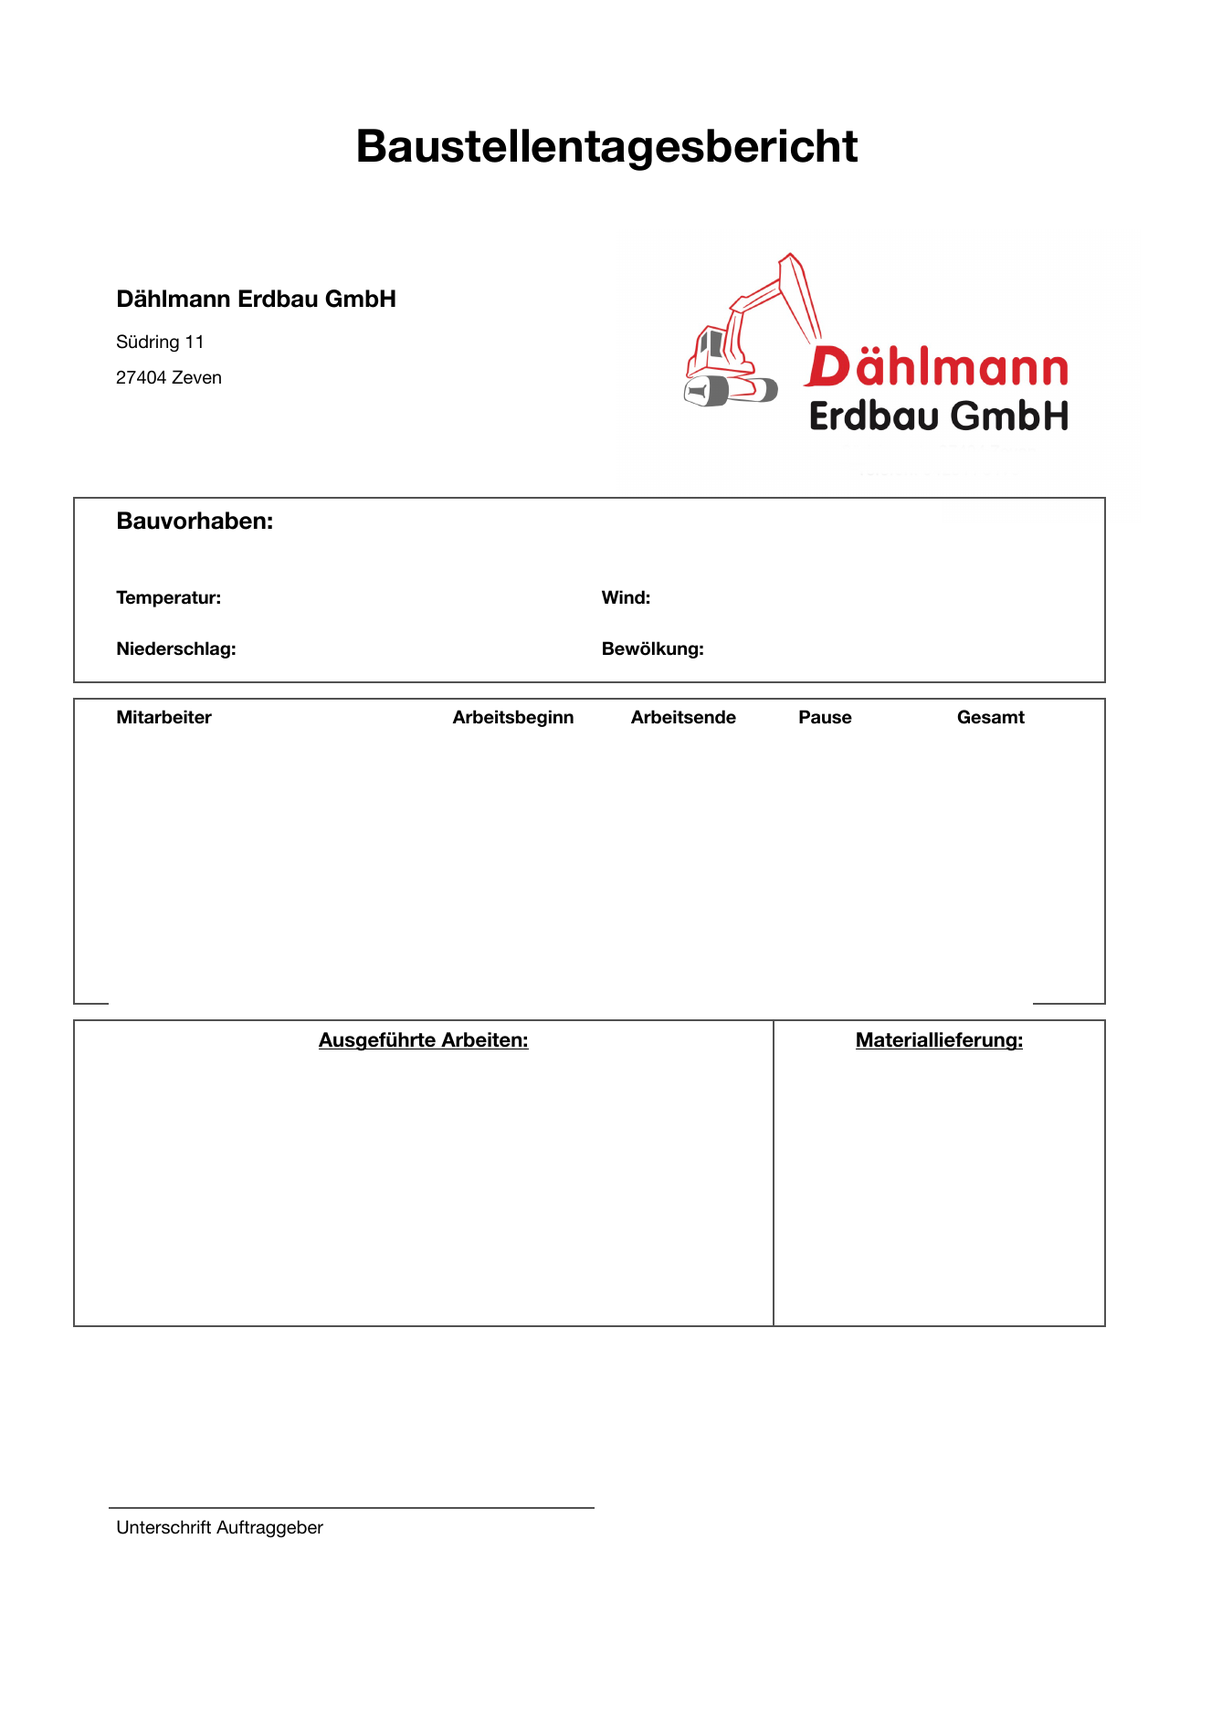
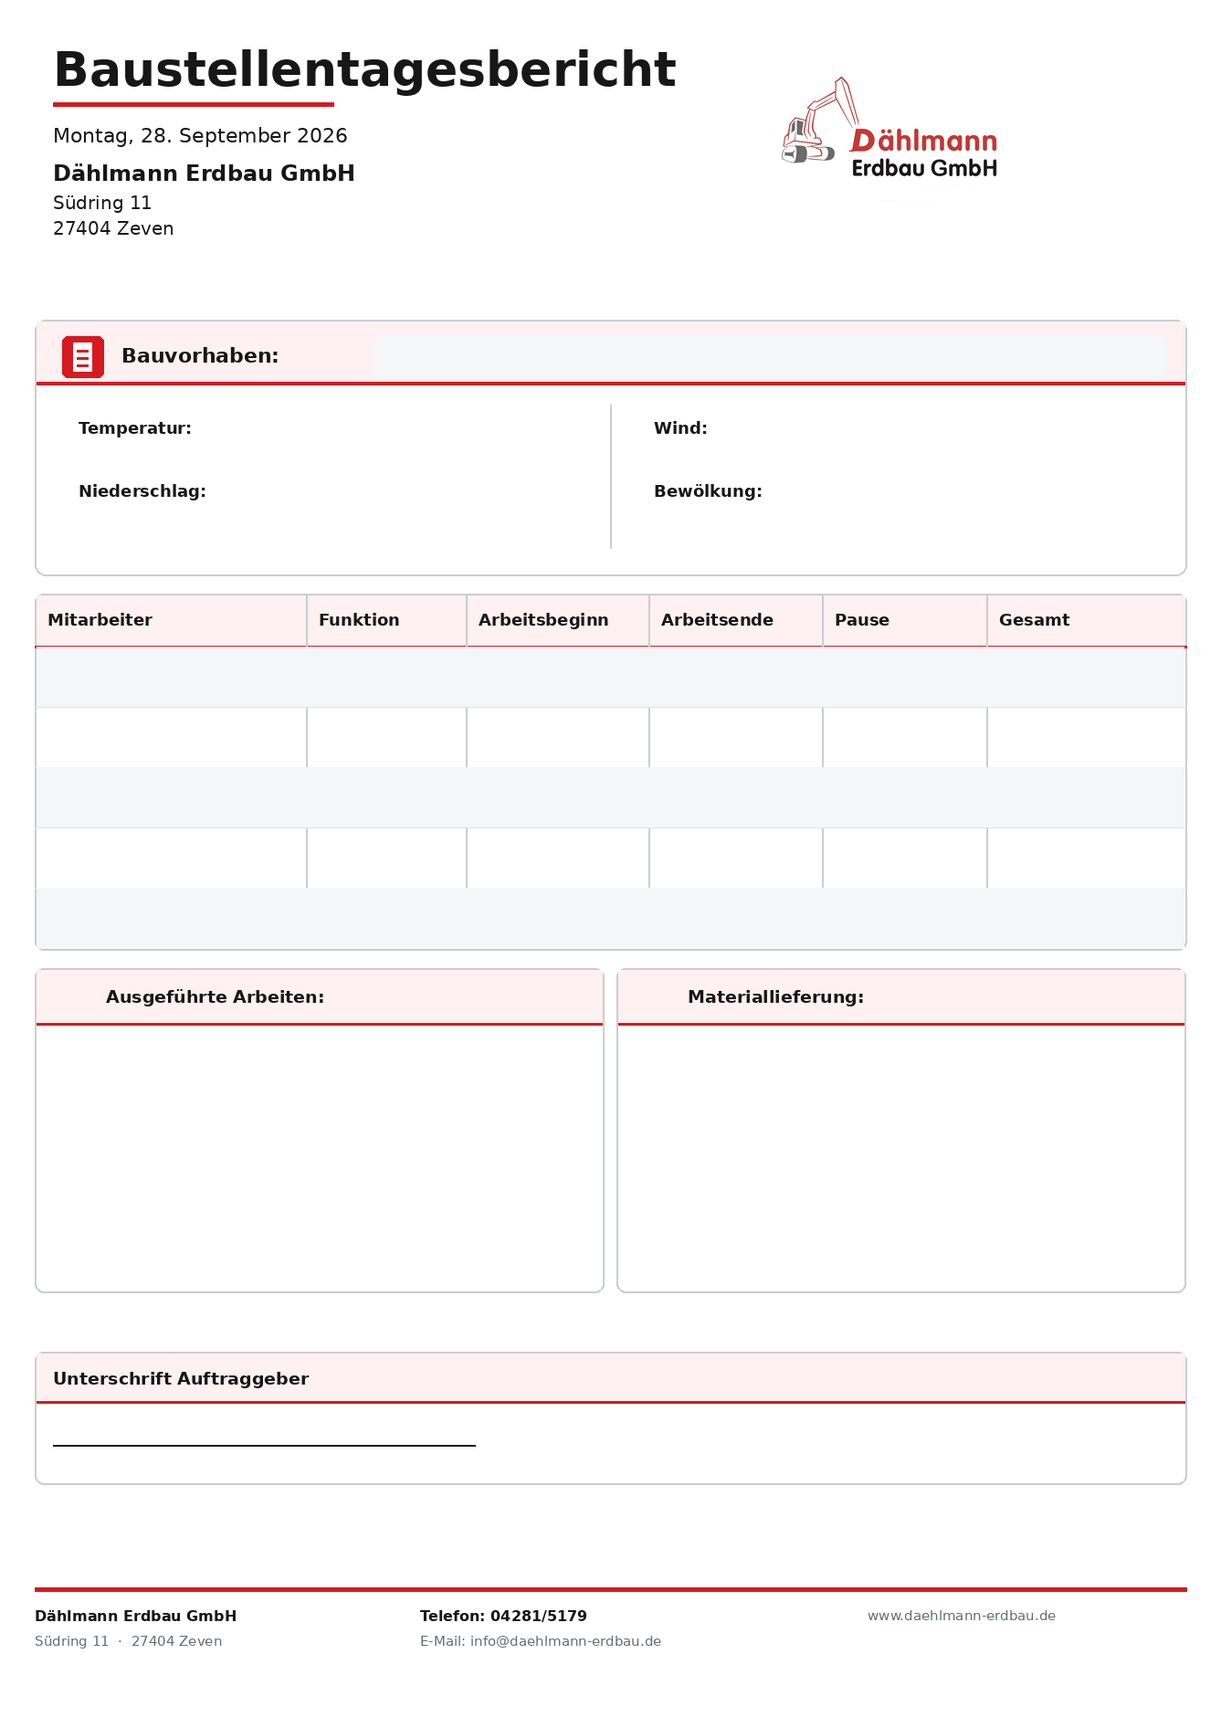
Add files via upload

diff --git a/app.js b/app.js
@@ -856,9 +856,7 @@ function pdfFilename(data){
 
 async function createPdf(options={}){
   const data=collect();
-  // Auch beim direkten Erstellen einer PDF wird der aktuelle Nachweis in der
-  // App gespeichert. So bleibt er unter "Nachweise" erhalten, unabhängig
-  // davon, ob der Benutzer den anschließenden Datei-Speicherdialog abbricht.
+  // Den aktuellen Bericht beim PDF-Export immer speichern.
   if(options.saveReport!==false){
     if(editingReportIndex!==null && reports[editingReportIndex]){
       const previous=reports[editingReportIndex];
@@ -874,31 +872,94 @@ async function createPdf(options={}){
   const btn=$('pdf');btn.disabled=true;btn.textContent='PDF wird erstellt …';
   let fileHandle=null;
   try{
-    // Den nativen Speichern-Dialog verwenden, wenn der Browser ihn unterstützt.
-    // Auf iPhone/iPad (Safari) gibt es showSaveFilePicker nicht; dort verwenden wir
-    // anschließend den System-Teilen-Dialog, über den der Benutzer 'In Dateien sichern'
-    // und den Zielordner auswählen kann.
     if(options.askLocation && 'showSaveFilePicker' in window){
       fileHandle=await window.showSaveFilePicker({
         suggestedName:pdfFilename(data),
         types:[{description:'PDF-Datei',accept:{'application/pdf':['.pdf']}}]
       });
     }
+
     const {PDFDocument,StandardFonts,rgb}=PDFLib;
-    const bytes=await fetch('OriginalTemplate.pdf',{cache:'no-store'}).then(r=>{if(!r.ok)throw new Error('Vorlage nicht gefunden');return r.arrayBuffer()});
-    const pdf=await PDFDocument.load(bytes); const page=pdf.getPages()[0]; const W=page.getWidth(),H=page.getHeight();
-    const normal=await pdf.embedFont(StandardFonts.Helvetica),bold=await pdf.embedFont(StandardFonts.HelveticaBold);
-    function cover(x,yTop,w,h){page.drawRectangle({x,y:H-yTop-h,width:w,height:h,color:rgb(1,1,1)})}
-    cover(225,94,165,18);cover(50,140,220,22);cover(50,165,150,40);
-    const dateText=formatDate(data.date),dateSize=fitText(normal,dateText,145,9.5,7.5);
-    page.drawText(dateText,{x:(W-normal.widthOfTextAtSize(dateText,dateSize))/2,y:H-108,size:dateSize,font:normal});
-    if(data.contractor)page.drawText(data.contractor,{x:54,y:H-158,size:11,font:bold});
-    splitLines(data.address).slice(0,2).forEach((ln,i)=>page.drawText(ln,{x:54,y:H-(180+i*20),size:9.5,font:normal}));
-    cover(180,241,375,24);drawWrapped(page,normal,data.project||'',198,H-263,350,9.5,1,2);
-    const rowTop=H-320,rowStep=20;
-    data.employees.slice(0,12).forEach((e,i)=>{const y=rowTop-i*rowStep,hours=(Number(e.hours)||0).toFixed(2).replace('.',',');if(hours!=='0,00')page.drawText(hours,{x:84,y,size:9.5,font:normal});if(e.service||e.activity)drawWrapped(page,normal,e.service||e.activity,145,y,92,9.2,1,2);if(e.name)page.drawText(e.name,{x:247,y,size:9.5,font:normal});if(e.start)page.drawText(e.start,{x:412,y,size:9.5,font:normal});if(e.end)page.drawText(e.end,{x:466,y,size:9.5,font:normal});if(Number(e.pause))page.drawText(String(e.pause),{x:517,y,size:9.5,font:normal})});
-    const contentTop=H-565;data.works.slice(0,12).forEach((v,i)=>drawWrapped(page,normal,'• '+v,54,contentTop-i*14,285,9.2,1,2));data.materials.slice(0,12).forEach((v,i)=>drawWrapped(page,normal,'• '+v,355,contentTop-i*14,195,9.2,1,2));
-    if(data.signature&&data.signature.length>100){const sigPng=await pdf.embedPng(data.signature);page.drawImage(sigPng,{x:54,y:70,width:190,height:70,opacity:1})}
+    // Die PDF wird jetzt wirklich auf der neuen Baustellentagesbericht-Skizze
+    // aufgebaut. Die Vorlage enthält nur das feste Layout; alle veränderlichen
+    // Angaben werden hier exakt in die dafür vorgesehenen Felder geschrieben.
+    const templateBytes=await fetch('template-bg-exact-clean-v2.png',{cache:'no-store'})
+      .then(r=>{if(!r.ok)throw new Error('PDF-Vorlage nicht gefunden');return r.arrayBuffer()});
+    const pdf=await PDFDocument.create();
+    const W=668.539,H=946.067;
+    const page=pdf.addPage([W,H]);
+    const bg=await pdf.embedPng(templateBytes);
+    page.drawImage(bg,{x:0,y:0,width:W,height:H});
+
+    const normal=await pdf.embedFont(StandardFonts.Helvetica);
+    const bold=await pdf.embedFont(StandardFonts.HelveticaBold);
+    const sx=W/1055, sy=H/1491;
+
+    // Bildkoordinaten (oben links) -> PDF-Koordinaten.
+    function drawImgText(value, px, py, size=9, font=normal, maxPx=null){
+      if(value===undefined||value===null||String(value)==='')return;
+      let str=String(value);
+      let fs=size;
+      if(maxPx){
+        const maxW=maxPx*sx;
+        while(fs>5.5 && font.widthOfTextAtSize(str,fs)>maxW)fs-=0.2;
+      }
+      page.drawText(str,{
+        x:px*sx,
+        y:H-(py+fs)*sy,
+        size:fs,
+        font,
+        color:rgb(0.06,0.06,0.06)
+      });
+    }
+    function drawFitImg(value,px,py,maxPx,size=9,font=normal){
+      if(value===undefined||value===null||String(value).trim()==='')return;
+      drawImgText(String(value),px,py,size,font,maxPx);
+    }
+
+    // Kopf
+    const dateText=formatDate(data.date);
+    drawFitImg(dateText,45,113,360,10,normal);
+
+    // Bauvorhaben: Kunde + Bauvorhaben, exakt in der grauen Zeile.
+    const projectLabel=[cleanContractorName(data.contractor),data.project].filter(Boolean).join(' – ');
+    drawFitImg(projectLabel,326,296,635,10,normal);
+
+    // Wetterwerte
+    drawFitImg(data.temperature,126,401,145,9.5,normal);
+    drawFitImg(data.wind,620,401,300,9.5,normal);
+    drawFitImg(data.precipitation,126,478,145,9.5,normal);
+    drawFitImg(data.cloud,620,478,300,9.5,normal);
+
+    // Mitarbeiter: eine Zeile pro Mitarbeiter, ohne zusätzliche Aufzählungszeichen.
+    // Die Spalten entsprechen der neuen Vorlage.
+    const employeeRows=(data.employees||[]).slice(0,5);
+    employeeRows.forEach((e,i)=>{
+      const top=614+i*48;
+      drawFitImg(e.name,47,top,205,8.7,normal);
+      drawFitImg(e.role,281,top,110,8.7,normal);
+      drawFitImg(e.start,404,top,115,8.7,normal);
+      drawFitImg(e.end,565,top,115,8.7,normal);
+      if(Number(e.pause)>0)drawFitImg(`${e.pause} min`,738,top,90,8.7,normal);
+      if(Number(e.hours)>0)drawFitImg((Number(e.hours)||0).toFixed(2).replace('.',',')+' Std.',875,top,105,8.7,normal);
+    });
+
+    // Ausgeführte Arbeiten – kein Punkt vor dem Eintrag.
+    (data.works||[]).slice(0,7).forEach((v,i)=>{
+      drawFitImg(v,48,908+i*29,450,8.4,normal);
+    });
+
+    // Materiallieferung – kein Punkt vor dem Eintrag.
+    (data.materials||[]).slice(0,7).forEach((v,i)=>{
+      drawFitImg(v,540,908+i*29,450,8.4,normal);
+    });
+
+    // Unterschrift liegt auf der vorhandenen Linie der Vorlage.
+    if(data.signature&&data.signature.length>100){
+      const sig=await pdf.embedPng(data.signature);
+      page.drawImage(sig,{x:45*sx,y:H-(1260+80)*sy,width:230*sx,height:70*sy});
+    }
+
     const out=await pdf.save({useObjectStreams:false});
     if(fileHandle){
       const writable=await fileHandle.createWritable();
@@ -907,10 +968,6 @@ async function createPdf(options={}){
     }else{
       const blob=new Blob([out],{type:'application/pdf'});
       const filename=pdfFilename(data);
-      // Auf mobilen Browsern, insbesondere iOS/iPadOS, gibt es keinen universellen
-      // 'Speichern unter'-Dialog für Web-Downloads. Der System-Teilen-Dialog bietet
-      // dort die Möglichkeit, die PDF über 'In Dateien sichern' an einem frei
-      // wählbaren Ort abzulegen.
       if(options.askLocation && navigator.share && navigator.canShare){
         const file=new File([blob],filename,{type:'application/pdf'});
         if(navigator.canShare({files:[file]})){
@@ -918,18 +975,22 @@ async function createPdf(options={}){
           return true;
         }
       }
-      // Fallback für Browser ohne Speichern-/Teilen-Dialog.
       const url=URL.createObjectURL(blob);
-      const a=document.createElement('a');a.href=url;a.download=filename;a.style.display='none';document.body.appendChild(a);a.click();a.remove();
+      const a=document.createElement('a');
+      a.href=url;a.download=filename;a.style.display='none';
+      document.body.appendChild(a);a.click();a.remove();
       setTimeout(()=>URL.revokeObjectURL(url),60000);
     }
     return true;
   }catch(err){
     if(err?.name==='AbortError') return false;
-    console.error(err);alert('PDF konnte nicht erstellt/gespeichert werden: '+err.message);return false;
-  }finally{btn.disabled=false;btn.textContent='PDF erstellen'}
+    console.error(err);
+    alert('PDF konnte nicht erstellt/gespeichert werden: '+err.message);
+    return false;
+  }finally{
+    btn.disabled=false;btn.textContent='PDF erstellen';
+  }
 }
-
 
 let reportSignatureCanvas, reportSignatureCtx, reportSignatureDown=false;
 let reportSignatureReady=false;
@@ -965,21 +1026,18 @@ function collectTagesbericht(){
 }
 function renderTagesberichtSummary(){
   const d=collectTagesbericht();
-  const emp=d.employees.map(e=>`<div class="reportSummaryEmployee"><b>${esc(e.name||'—')}</b><span>${esc(e.role||'—')} · ${esc(e.start||'—')}–${esc(e.end||'—')} · ${e.pause?esc(String(e.pause))+' min Pause':'keine Pause'} · <strong>${(Number(e.hours)||0).toFixed(2).replace('.',',')} Std.</strong></span></div>`).join('');
-  const list=(arr)=>arr.length?`<ul class="reportSummaryList">${arr.map(x=>`<li>${esc(x)}</li>`).join('')}</ul>`:'<div class="empty">Keine Angaben.</div>';
+  const date=formatDate(d.date)||'—';
+  const projectLabel=[d.customer,d.project].filter(Boolean).join(' – ')||'—';
+  const rows=(d.employees||[]).map(e=>`<tr><td>${esc(e.name||'—')}</td><td>${esc(e.role||'—')}</td><td>${esc(e.start||'—')}</td><td>${esc(e.end||'—')}</td><td>${e.pause?esc(String(e.pause))+' min':'—'}</td><td>${(Number(e.hours)||0).toFixed(2).replace('.',',')} Std.</td></tr>`).join('');
+  const lineRows=arr=>{const values=(arr||[]).slice(0,6);return Array.from({length:6},(_,i)=>`<div class="reportEntryLine">${values[i]?esc(values[i]):''}</div>`).join('')};
+  const sig=hasReportSignature()?`<img class="reportPreviewSignature" src="${reportSignatureCanvas.toDataURL('image/png')}" alt="">`:'';
   $('reportSummaryContent').innerHTML=`
-    <div class="reportSummaryGrid">
-      <div><span>Datum</span><b>${esc(formatDate(d.date)||'—')}</b></div>
-      <div><span>Kunde</span><b>${esc(d.customer||'—')}</b></div>
-      <div class="wide"><span>Bauvorhaben</span><b>${esc(d.project||'—')}</b></div>
-      <div><span>🌡 Temperatur</span><b>${esc(d.temperature)}</b></div>
-      <div><span>🌧 Niederschlag</span><b>${esc(d.precipitation)}</b></div>
-      <div><span>💨 Wind</span><b>${esc(d.wind)}</b></div>
-      <div><span>☁ Bewölkung</span><b>${esc(d.cloud)}</b></div>
-    </div>
-    <div class="reportSummarySection"><h3>Mitarbeiter</h3>${emp||'<div class="empty">Keine Mitarbeiter eingetragen.</div>'}</div>
-    <div class="reportSummarySection"><h3>Ausgeführte Arbeiten</h3>${list(d.works)}</div>
-    <div class="reportSummarySection"><h3>Materiallieferung</h3>${list(d.materials)}</div>`;
+    <div class="reportPaperHeader"><div class="reportHeaderLeft"><h1>Baustellentagesbericht</h1><div class="reportRedRule"></div><div class="reportDate">${esc(date)}</div><div class="reportCompany">Dählmann Erdbau GmbH</div><div>Südring 11</div><div>27404 Zeven</div></div><img class="reportLogo" src="dahlmann-erdbau-logo.jpg" alt="Dählmann Erdbau GmbH"></div>
+    <div class="reportInfoBox"><div class="reportProjectRow"><span class="reportDocIcon" aria-hidden="true">▤</span><b>Bauvorhaben:</b><span class="reportProjectValue">${esc(projectLabel)}</span></div><div class="reportWeatherRows"><div><b>Temperatur:</b><span>${esc(d.temperature)}</span></div><div><b>Wind:</b><span>${esc(d.wind)}</span></div><div><b>Niederschlag:</b><span>${esc(d.precipitation)}</span></div><div><b>Bewölkung:</b><span>${esc(d.cloud)}</span></div></div></div>
+    <div class="reportEmployeeTableWrap"><table class="reportEmployeeTable"><thead><tr><th>Mitarbeiter</th><th>Funktion</th><th>Arbeitsbeginn</th><th>Arbeitsende</th><th>Pause</th><th>Gesamt</th></tr></thead><tbody>${rows}${Array.from({length:Math.max(0,5-(d.employees||[]).length)},()=>'<tr><td></td><td></td><td></td><td></td><td></td><td></td></tr>').join('')}</tbody></table></div>
+    <div class="reportTwoCols"><section class="reportListBox"><h3><span class="gearIcon">⚙</span>Ausgeführte Arbeiten:</h3><div class="reportLines">${lineRows(d.works)}</div></section><section class="reportListBox"><h3><span class="truckIcon">▰</span>Materiallieferung:</h3><div class="reportLines">${lineRows(d.materials)}</div></section></div>
+    <div class="reportSignaturePreview"><h3>Unterschrift Auftraggeber</h3><div class="signatureLine">${sig}</div></div>
+    <div class="reportFooter"><div><b>Dählmann Erdbau GmbH</b><br>Südring 11 · 27404 Zeven</div><div><b>Telefon: 04281/5179</b><br>E-Mail: info@daehlmann-erdbau.de</div><div>www.daehlmann-erdbau.de</div></div>`;
 }
 function saveTagesbericht(){
   const data=collectTagesbericht();
@@ -1075,7 +1133,7 @@ async function createTagesberichtPdf(data){
     const works=(data.works||[]).slice(0,8);
     works.forEach((v,i)=>{
       const y=H-(593+i*15);
-      drawFit('• '+v,64,y,315,8.5,normal);
+      drawFit(v,64,y,315,8.5,normal);
     });
 
     // Materiallieferungen – deutlich weiter rechts und ebenfalls strikt innerhalb
@@ -1083,7 +1141,7 @@ async function createTagesberichtPdf(data){
     const materials=(data.materials||[]).slice(0,8);
     materials.forEach((v,i)=>{
       const y=H-(593+i*15);
-      drawFit('• '+v,410,y,130,8.2,normal);
+      drawFit(v,410,y,130,8.2,normal);
     });
 
     // Unterschrift: die Vorlage selbst enthält die Beschriftung und Linie.

diff --git a/styles.css b/styles.css
@@ -2448,3 +2448,6 @@ body.tagelohn-clean #appNav button small {
 .reportFinalActions{display:grid;gap:10px;margin-top:2px}
 .reportFinalActions .reportNextButton{margin-top:0}
 #tagesberichtSummary .reportSignaturePanel{padding-bottom:24px}
+
+/* APPROVED BAUSTELLENTAGESBERICHT – faithful web preview */
+.reportPreviewShell{max-width:760px;margin:0 auto;padding:0 8px 28px}.reportPaper{background:#fff;border:1px solid #d6dade;border-radius:10px;overflow:hidden;box-shadow:0 3px 14px rgba(20,30,40,.06);color:#171717}.reportPaperHeader{display:flex;justify-content:space-between;gap:18px;padding:30px 30px 22px;align-items:flex-start}.reportHeaderLeft h1{font-size:34px;line-height:1.05;margin:0;font-weight:800}.reportRedRule{width:230px;height:4px;background:#d71920;margin:8px 0 12px}.reportDate{font-size:15px;margin-bottom:18px}.reportCompany{font-weight:800;font-size:16px;margin-bottom:3px}.reportLogo{width:205px;height:auto;object-fit:contain;align-self:flex-start}.reportInfoBox{margin:0 22px;border:1px solid #cbd1d6;border-radius:9px;overflow:hidden}.reportProjectRow{min-height:54px;background:#fff0f1;border-bottom:2px solid #d71920;display:flex;align-items:center;gap:12px;padding:8px 14px}.reportDocIcon{display:grid;place-items:center;width:34px;height:38px;background:#d71920;color:#fff;border-radius:5px;font-size:24px;font-weight:800;line-height:1}.reportProjectRow b{font-size:16px;white-space:nowrap}.reportProjectValue{background:#f1f3f4;border-radius:6px;padding:9px 12px;min-width:0;flex:1;font-size:14px}.reportWeatherRows{display:grid;grid-template-columns:1fr 1fr;padding:14px 22px 16px;gap:10px 0}.reportWeatherRows>div{display:grid;grid-template-columns:115px 1fr;gap:8px;font-size:14px;min-height:32px;align-items:center}.reportWeatherRows>div:nth-child(odd){border-right:1px solid #cbd1d6;padding-right:20px}.reportWeatherRows>div:nth-child(even){padding-left:25px}.reportEmployeeTableWrap{margin:18px 22px 0;border:1px solid #cbd1d6;border-radius:8px;overflow:hidden}.reportEmployeeTable{width:100%;border-collapse:collapse;table-layout:fixed;font-size:13px}.reportEmployeeTable th{background:#fff0f1;border-bottom:2px solid #d71920;padding:10px 8px;text-align:left;font-weight:800}.reportEmployeeTable td{padding:10px 8px;border-right:1px solid #d5d9dc;border-bottom:1px solid #e5e7e9;vertical-align:top;overflow-wrap:anywhere}.reportEmployeeTable tr:nth-child(even) td{background:#f5f6f7}.reportEmployeeTable th:last-child,.reportEmployeeTable td:last-child{border-right:0}.reportEmployeeTable th:nth-child(1),.reportEmployeeTable td:nth-child(1){width:27%}.reportEmployeeTable th:nth-child(2),.reportEmployeeTable td:nth-child(2){width:15%}.reportEmployeeTable th:nth-child(3),.reportEmployeeTable td:nth-child(3){width:16%}.reportEmployeeTable th:nth-child(4),.reportEmployeeTable td:nth-child(4){width:16%}.reportEmployeeTable th:nth-child(5),.reportEmployeeTable td:nth-child(5){width:12%}.reportEmployeeTable th:nth-child(6),.reportEmployeeTable td:nth-child(6){width:14%}.reportTwoCols{display:grid;grid-template-columns:1fr 1fr;gap:10px;margin:18px 22px 0}.reportListBox{border:1px solid #cbd1d6;border-radius:8px;overflow:hidden;min-width:0}.reportListBox h3{margin:0;background:#fff0f1;border-bottom:2px solid #d71920;padding:10px 14px;font-size:15px;display:flex;align-items:center;gap:10px}.gearIcon,.truckIcon{color:#d71920;font-size:21px;line-height:1;font-weight:800}.reportLines{padding:7px 14px 10px}.reportEntryLine{min-height:30px;border-bottom:1px solid #d8dde1;padding:6px 2px;font-size:13px;line-height:1.3;overflow-wrap:anywhere}.reportSignaturePreview{margin:18px 22px 0;border:1px solid #cbd1d6;border-radius:8px;overflow:hidden}.reportSignaturePreview h3{margin:0;background:#fff0f1;border-bottom:2px solid #d71920;padding:10px 14px;font-size:15px}.signatureLine{height:80px;margin:0 18px;position:relative}.reportPreviewSignature{position:absolute;left:0;bottom:8px;width:230px;height:70px;object-fit:contain;object-position:left bottom}.reportSignaturePreview:after{content:"";display:block;margin:0 18px 18px;border-bottom:2px solid #222;width:45%}.reportFooter{display:grid;grid-template-columns:1fr 1.2fr 1fr;gap:15px;border-top:3px solid #d71920;margin:28px 22px 0;padding:14px 0 20px;font-size:11px;line-height:1.5;color:#606870}.reportFooter b{color:#171717}.reportSignBox{margin-top:12px;background:#fff;border:1px solid #dfe3e6;border-radius:12px;padding:14px}.reportSignBox h3{margin:0 0 10px;font-size:18px}#reportSig{display:block;width:100%;height:110px;border:1px solid #d4d9dd;border-radius:8px;background:#fff;touch-action:none}.reportSignatureRow{display:flex;gap:10px;margin-top:10px;align-items:center}.reportSignatureRow input{flex:1;min-width:0}.reportFinalActions{display:grid;grid-template-columns:1fr 1fr;gap:10px;margin-top:12px}.reportFinalActions button{width:100%}@media(max-width:600px){.reportPreviewShell{padding:0 0 20px}.reportPaperHeader{padding:22px 16px 16px}.reportHeaderLeft h1{font-size:27px}.reportRedRule{width:175px}.reportLogo{width:135px}.reportInfoBox{margin:0 12px}.reportProjectRow{align-items:flex-start;flex-wrap:wrap}.reportProjectValue{flex-basis:100%;margin-left:46px;margin-top:-2px}.reportWeatherRows{grid-template-columns:1fr;padding:10px 14px}.reportWeatherRows>div:nth-child(odd){border-right:0;padding-right:0}.reportWeatherRows>div:nth-child(even){padding-left:0}.reportEmployeeTableWrap{margin:12px 12px 0;overflow-x:auto}.reportEmployeeTable{min-width:680px}.reportTwoCols{grid-template-columns:1fr;gap:10px;margin:12px 12px 0}.reportSignaturePreview{margin:12px 12px 0}.reportFooter{grid-template-columns:1fr;margin:18px 12px 0}.reportFinalActions{grid-template-columns:1fr}}

diff --git a/index.html b/index.html
@@ -90,16 +90,13 @@
 </section>
 
 <section id="tagesberichtSummary" class="screen reportDesign">
-<div class="moduleHeader"><div><h2>Zusammenfassung</h2></div></div>
-<div class="panel reportSummaryPanel">
-  <h2>Bericht prüfen</h2>
-  <div id="reportSummaryContent" class="reportSummaryContent"></div>
-</div>
-<div class="panel reportSignaturePanel">
-  <h2>Unterschrift</h2>
-  <p class="hint">Bitte den Bericht nach der Prüfung unterschreiben.</p>
-  <canvas id="reportSig" width="900" height="300" aria-label="Unterschrift Auftraggeber"></canvas>
-  <div class="reportSignatureRow"><button id="clearReportSig" type="button">Unterschrift löschen</button><input id="reportSignerName" placeholder="Name (optional)" aria-label="Name des Unterzeichners"></div>
+<div class="reportPreviewShell">
+  <div id="reportSummaryContent" class="reportPaper"></div>
+  <div class="reportSignBox">
+    <h3>Unterschrift Auftraggeber</h3>
+    <canvas id="reportSig" width="900" height="260" aria-label="Unterschrift Auftraggeber"></canvas>
+    <div class="reportSignatureRow"><button id="clearReportSig" type="button">Unterschrift löschen</button><input id="reportSignerName" placeholder="Name (optional)" aria-label="Name des Unterzeichners"></div>
+  </div>
   <div class="reportFinalActions"><button id="saveReport" type="button" class="secondary reportNextButton">Bericht speichern</button><button id="saveReportAndPdf" type="button" class="primary reportNextButton">PDF erstellen</button></div>
 </div>
 </section>
@@ -186,4 +183,4 @@
   <button id="navBack" type="button">‹<small>Zurück</small></button>
 </nav>
 <script src="https://unpkg.com/pdf-lib@1.17.1/dist/pdf-lib.min.js"></script>
-<script src="app.js?v=pdf-template-47"></script></body></html>
+<script src="app.js?v=pdf-template-52"></script></body></html>
